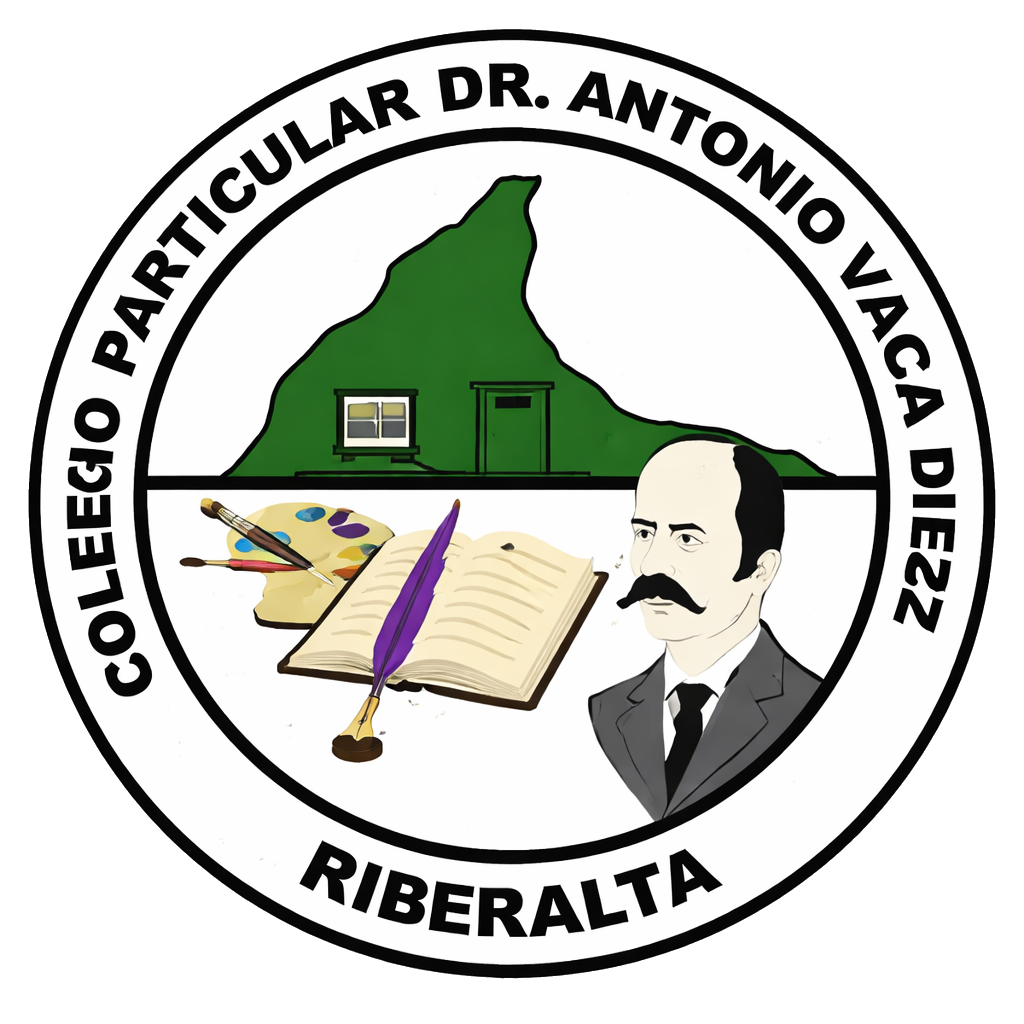
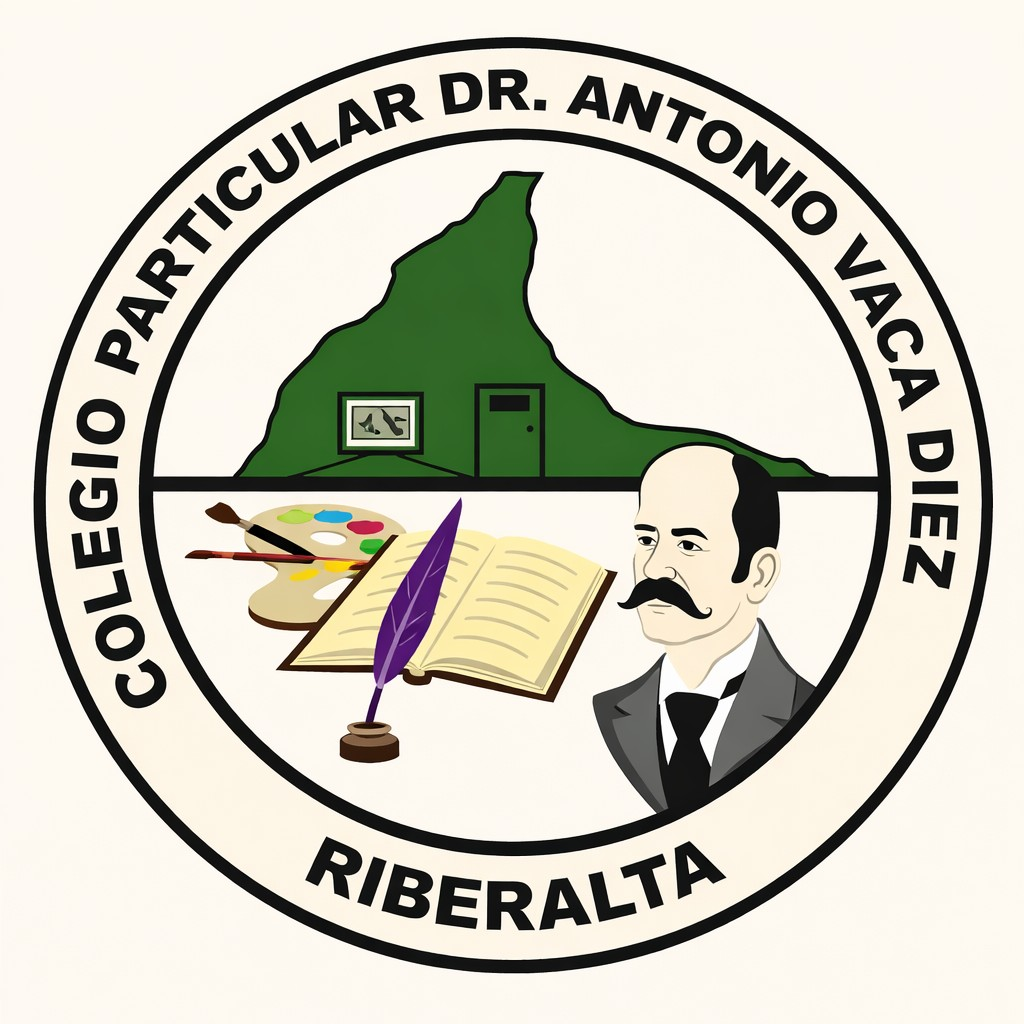
Certificado: emblema con fondo crema, sin recorte circular
Made-with: Cursor

diff --git a/src/lib/certificadoPrintHtml.ts b/src/lib/certificadoPrintHtml.ts
@@ -1,7 +1,7 @@
 /**
  * Certificado de progreso — carta (letter) horizontal.
  * Emblema del colegio: `public/emblema-colegio-vaca-diez.png` (esquina superior derecha).
- * Tras reemplazar el PNG: `npm run prepare-emblema-colegio` (fondo blanco exterior → transparente).
+ * El PNG puede llevar su propio fondo (p. ej. crema). Opcional: `npm run prepare-emblema-colegio` solo si quieres quitar el blanco del borde.
  * Variante `print`: fuentes Google.
  * Variante `pdf`: Georgia/Times para html2canvas.
  */
@@ -266,7 +266,7 @@ export function buildCertificadoPrintDocument(
     .corner-bl { bottom: 14px; left: 14px; border-bottom: 2px solid; border-left: 2px solid; }
     .corner-br { bottom: 14px; right: 14px; border-bottom: 2px solid; border-right: 2px solid; }
 
-    /* Emblema: encima del texto (no reserva espacio; el texto no se desplaza) */
+    /* Emblema: encima del texto; PNG completo (incl. fondo crema del archivo, sin recorte circular) */
     .cert-emblema-wrap {
       position: absolute;
       top: 28px;
@@ -275,7 +275,7 @@ export function buildCertificadoPrintDocument(
       height: 132px;
       z-index: 10;
       pointer-events: none;
-      border-radius: 50%;
+      border-radius: 4px;
       overflow: hidden;
       background: transparent;
       box-shadow: 0 4px 14px rgba(0, 0, 0, 0.1);

diff --git a/README.md b/README.md
@@ -179,7 +179,7 @@ Guía y checklist: [`supabase/UNIDADES_MEDIA.md`](supabase/UNIDADES_MEDIA.md).
 El certificado de unidad completada se descarga en **PDF** en **carta horizontal** (letter landscape, 11" × 8.5"). El diseño es HTML/CSS (marco, líneas y tipografía) y **incluye el emblema del colegio** en la esquina superior derecha (`public/emblema-colegio-vaca-diez.png`).
 
 - **Descargar certificado (PDF):** genera un archivo `.pdf` listo para imprimir o archivar.
-- **Cambiar el emblema:** sustituye el archivo `public/emblema-colegio-vaca-diez.png` por tu PNG (fondo blanco fuera del círculo está bien). Luego ejecuta **`npm run prepare-emblema-colegio`** para volver transparente solo el blanco **conectado al borde** de la imagen (el interior del sello se mantiene).
+- **Cambiar el emblema:** sustituye `public/emblema-colegio-vaca-diez.png` por tu PNG (puede incluir fondo crema u otro; se muestra tal cual). Opcional: **`npm run prepare-emblema-colegio`** solo si quieres transparencia en el borde del archivo.
 
 ---
 
